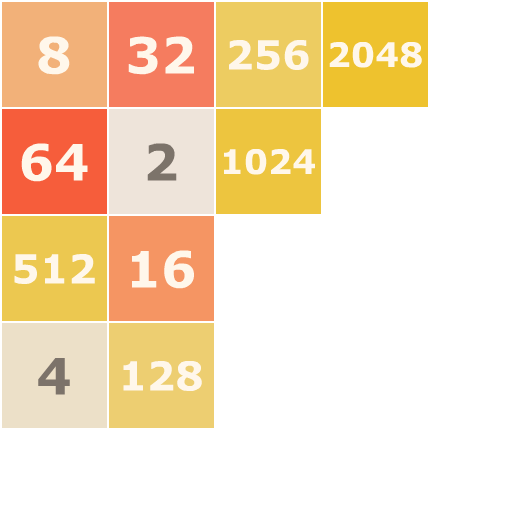
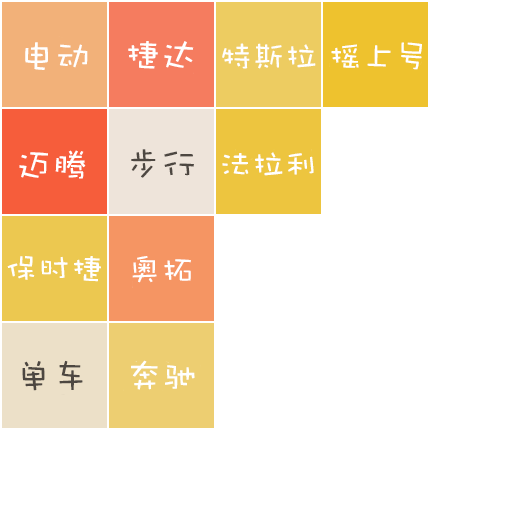
Change the pngs.
Change the pngs.

diff --git a/car/game.min.js b/car/game.min.js
@@ -3772,7 +3772,7 @@ d=c.link();cc.assert(d,"Shader linking error");c.updateUniforms();return c};gaf.
 a.getUniformLocationForName(gaf.UNIFORM_ALPHA_COLOR_MATRIX_APPENDIX);return a};gaf._shaderCreateBlur=function(){var a=gaf._shaderCreate(gaf.SHADER_GAUSSIAN_BLUR_FRAG,cc.SHADER_POSITION_TEXTURE_COLOR_VERT);gaf._Uniforms.BlurTexelOffset=a._glContext.getUniformLocation(a._programObj,gaf.UNIFORM_BLUR_TEXEL_OFFSET);return a};gaf._shaderCreateGlow=function(){var a=gaf._shaderCreate(gaf.SHADER_GLOW_FRAG,cc.SHADER_POSITION_TEXTURE_COLOR_VERT);gaf._Uniforms.GlowTexelOffset=a._glContext.getUniformLocation(a._programObj,
 gaf.UNIFORM_GLOW_TEXEL_OFFSET);gaf._Uniforms.GlowColor=a._glContext.getUniformLocation(a._programObj,gaf.UNIFORM_GLOW_COLOR);return a};gaf._Shaders={Alpha:gaf._shaderCreateAlpha(),Blur:gaf._shaderCreateBlur(),Glow:gaf._shaderCreateGlow()}};gaf._setupShaders=function(){cc._renderType===cc.game.RENDER_TYPE_WEBGL?gaf._glShaderInit():delete gaf._glShaderInit};gaf._AtlasLoader={};gaf._AtlasLoader.execute=function(a,b,c){a()?b():c()};gaf._AtlasLoader.checkAtlas=function(a){return function(){return a&&"string"!==typeof a&&a.isLoaded()}};gaf._AtlasLoader.load=function(a,b,c){cc.textureCache.addImage(a,function(a){gaf._AtlasLoader.execute(gaf._AtlasLoader.checkAtlas(a),function(){b(a)},c)})};gaf._AtlasLoader.loadFront=function(a,b,c){return function(){0<a.length?gaf._AtlasLoader.load(a[0],b,gaf._AtlasLoader.loadFront(a.slice(1),b,c)):c()}};
 gaf._AtlasLoader.loadArray=function(a,b,c){gaf._AtlasLoader.loadFront(a,b,c)()};var res={source_plist:"res/source/source.plist",soucre_png:"res/source/source.png",nums_plist:"res/nums/nums.plist",nums_png:"res/nums/nums.png"},g_resources=[];for(i in res)g_resources.push(res[i]);var GC=GC||{};GC.winSize=cc.size(520,650);GC.h=GC.winSize.height;GC.w=GC.winSize.width;GC.w_2=GC.w/2;GC.h_2=GC.h/2;GC.gap=16;GC.size=4;GC.startTiles=2;GC.winValue=2048;GC.GAME_STATE={PLAY:1,OVER:2};GC.KEY_MAP={38:0,39:1,40:2,37:3,87:0,68:1,83:2,65:3};var GamePlayLayer=cc.Layer.extend({backgroundLayer:null,touchLayer:null,ctor:function(){this._super();this.addCache();this.addBackgroundLayer();this.addTouchLayer()},addCache:function(){cc.spriteFrameCache.addSpriteFrames(res.source_plist);cc.spriteFrameCache.addSpriteFrames(res.nums_plist)},addBackgroundLayer:function(){this.backgroundLayer=new GPBackgroundLayer(cc.color(250,248,239));this.addChild(this.backgroundLayer)},addTouchLayer:function(){this.touchLayer=new GPTouchLayer;this.addChild(this.touchLayer)}}),
-GamePlayScene=cc.Scene.extend({onEnter:function(){this._super();var a=new GamePlayLayer;this.addChild(a)}});var GPBackgroundLayer=cc.LayerColor.extend({ctor:function(a){this._super(a);this.initBackground()},initBackground:function(){var a,b,c=GC.size;b=GC.w-20;var d=GC.h-140,e=cc.textureCache.addImage(res.soucre_png),e=new cc.SpriteBatchNode(e);a=new cc.Sprite("#menu.png");a.attr({x:GC.w_2,y:GC.h-60.5});this.addChild(a);a=new cc.Scale9Sprite("background.png");a.attr({x:GC.w_2,y:d-b/2,width:b,height:b});this.addChild(a);for(a=0;a<c;a++)for(var f=0;f<c;f++)b=new cc.Sprite("#backtile.png"),b.attr({x:121*f+
+GamePlayScene=cc.Scene.extend({onEnter:function(){this._super();var a=new GamePlayLayer;this.addChild(a)}});var GPBackgroundLayer=cc.LayerColor.extend({ctor:function(a){this._super(a);this.initBackground()},initBackground:function(){var a,b,c=GC.size;b=GC.w-16;var d=GC.h-140,e=cc.textureCache.addImage(res.soucre_png),e=new cc.SpriteBatchNode(e);a=new cc.Sprite("#menu.png");a.attr({x:GC.w_2,y:GC.h-60.5});this.addChild(a);a=new cc.Scale9Sprite("background.png");a.attr({x:GC.w_2,y:d-b/2,width:b,height:b});this.addChild(a);for(a=0;a<c;a++)for(var f=0;f<c;f++)b=new cc.Sprite("#backtile.png"),b.attr({x:121*f+
 78.5,y:d-121*a-16-52.5}),e.addChild(b);this.addChild(e)}});var GPTouchLayer=cc.Layer.extend({ctor:function(){this._super();this.size=GC.size;this.startTiles=GC.startTiles;this.gridX=10;this.gridY=GC.h-140;this.best=0;this.initBatchNode();this.initRetry();this.initScore();this.initGame();this.bindEvent()},initGame:function(){this.state=GC.GAME_STATE.PLAY;this.won=!1;this.lastMoveTime=this.score=0;this.grid=new Grid(this.size);this.lbScore.string=this.score.toString();TileSprite.tiles=[];this.addStartTiles()},initBatchNode:function(){var a=cc.textureCache.addImage(res.nums_png);
 this.texNumsBatch=new cc.SpriteBatchNode(a);this.addChild(this.texNumsBatch)},initRetry:function(){this.btnRetry=new cc.Sprite("#resetBtn_over.png");this.btnRetry.attr({x:GC.w-60,y:GC.h-104});this.addChild(this.btnRetry)},initScore:function(){this.lbScore=new ccui.Text;this.lbScore.attr({x:GC.w-160,y:GC.h-52,textAlign:cc.TEXT_ALIGNMENT_CENTER,string:this.score,font:"26px AmericanTypewriter"});this.addChild(this.lbScore);this.lbAdd=new ccui.Text;this.lbAdd.attr({x:GC.w-160,y:GC.h-50,textAlign:cc.TEXT_ALIGNMENT_CENTER,
 font:"22px AmericanTypewriter",color:cc.color(139,129,119),visble:!1});this.addChild(this.lbAdd);this.lbBest=new ccui.Text;this.lbBest.attr({x:GC.w-58,y:GC.h-52,textAlign:cc.TEXT_ALIGNMENT_CENTER,string:this.best,font:"26px AmericanTypewriter"});this.addChild(this.lbBest)},addStartTiles:function(){for(var a=0;a<this.startTiles;a++)this.addRandomTile()},addRandomTile:function(){var a;this.grid.cellsAvailable()&&(a=0.9*Math.random()?2:4,a=new Tile(this.grid.randomAvailableCell(),a),this.grid.insertTile(a),
@@ -3788,4 +3788,4 @@ a.y===b.y},movesAvailable:function(){return this.grid.cellsAvailable()||this.til
 this.resultWin=new cc.Scale9Sprite("background.png");this.resultWin.attr({x:GC.w_2,y:GC.h_2-65,width:GC.w,height:GC.w,opacity:76});this.addChild(this.resultWin);this.lbResult=new cc.Sprite(this.won?"#result_success.png":"#result_failed.png");this.lbResult.attr({x:GC.w_2,y:GC.h_2-65});this.addChild(this.lbResult)}});var TileSprite=cc.Sprite.extend({ctor:function(a){this._super("#"+a+".png");this.active=!0;this.value=a;this.location={}}});TileSprite.prototype.playScale=function(a){var b;a?(a=cc.scaleTo(0.1,1.2,1.2),b=cc.scaleTo(0.1,1,1),this.runAction(cc.sequence(a,b))):(this.scale=0.1,this.runAction(cc.scaleTo(0.1,1,1)))};TileSprite.prototype.playMove=function(a,b,c){a=cc.moveTo(0.1,cc.p(a,b));this.stopAction();this.runAction(cc.sequence(a,cc.callFunc(function(){c&&c()})))};
 TileSprite.prototype.setValue=function(a){this.value=a;this.update()};TileSprite.prototype.update=function(){this.setSpriteFrame(this.value+".png")};TileSprite.prototype.destroy=function(){this.active=this.visible=!1};TileSprite.getOrCreateTile=function(a){for(var b=null,c=0,d=TileSprite.tiles.length;c<d;c++)if(b=TileSprite.tiles[c],!1===b.active)return this.visible=!0,b.active=!0,b;return b=TileSprite.create(a)};TileSprite.create=function(a){a=new TileSprite(a);TileSprite.tiles.push(a);return a};var Grid=cc.Class.extend({ctor:function(a){this.size=a;this.cells=this.empty()}});Grid.prototype.empty=function(){for(var a=[],b,c=0;c<this.size;c++){b=a[c]=[];for(var d=0;d<this.size;d++)b.push(null)}return a};Grid.prototype.randomAvailableCell=function(){var a=this.availableCells();if(a.length)return a[Math.floor(Math.random()*a.length)]};Grid.prototype.availableCells=function(){var a=[];this.eachCell(function(b,c,d){d||a.push({x:b,y:c})});return a};
 Grid.prototype.eachCell=function(a){for(var b=0;b<this.size;b++)for(var c=0;c<this.size;c++)a(b,c,this.cells[b][c])};Grid.prototype.cellsAvailable=function(){return!!this.availableCells().length};Grid.prototype.cellAvailable=function(a){return!this.cellOccupied(a)};Grid.prototype.cellOccupied=function(a){return!!this.cellContent(a)};Grid.prototype.cellContent=function(a){return this.withinBounds(a)?this.cells[a.x][a.y]:null};Grid.prototype.insertTile=function(a){this.cells[a.x][a.y]=a};
-Grid.prototype.removeTile=function(a){this.cells[a.x][a.y]=null};Grid.prototype.withinBounds=function(a){return 0<=a.x&&a.x<this.size&&0<=a.y&&a.y<this.size};var Tile=cc.Class.extend({ctor:function(a,b){this.x=a.x;this.y=a.y;this.value=b||2;this.mergedFrom=this.previousPosition=null}});Tile.prototype.savePosition=function(){this.previousPosition={x:this.x,y:this.y}};Tile.prototype.updatePosition=function(a){this.x=a.x;this.y=a.y};cc.game.onStart=function(){cc.view.adjustViewPort(!0);cc.view.setDesignResolutionSize(520,650,cc.ResolutionPolicy.UNKNOWN);cc.view.resizeWithBrowserSize(!0);cc.LoaderScene.preload(g_resources,function(){cc.director.setProjection(cc.Director.PROJECTION_2D);cc.director.runScene(new GamePlayScene)},this)};cc.game.run();
+Grid.prototype.removeTile=function(a){this.cells[a.x][a.y]=null};Grid.prototype.withinBounds=function(a){return 0<=a.x&&a.x<this.size&&0<=a.y&&a.y<this.size};var Tile=cc.Class.extend({ctor:function(a,b){this.x=a.x;this.y=a.y;this.value=b||2;this.mergedFrom=this.previousPosition=null}});Tile.prototype.savePosition=function(){this.previousPosition={x:this.x,y:this.y}};Tile.prototype.updatePosition=function(a){this.x=a.x;this.y=a.y};cc.game.onStart=function(){cc.view.adjustViewPort(!0);cc.view.setDesignResolutionSize(520,650,cc.ResolutionPolicy.FIXED_WIDTH);cc.view.resizeWithBrowserSize(!0);cc.LoaderScene.preload(g_resources,function(){cc.director.setProjection(cc.Director.PROJECTION_2D);cc.director.runScene(new GamePlayScene)},this)};cc.game.run();

diff --git a/car/index.html b/car/index.html
@@ -2,7 +2,7 @@
 <html>
 <head>
     <meta charset="utf-8">
-    <title>Cocos2d-js 2048</title>
+    <title>新年你能开什么车</title>
     <link rel="icon" type="image/GIF" href="res/favicon.ico"/>
     <meta name="apple-mobile-web-app-capable" content="yes"/>
     <meta name="full-screen" content="yes"/>
